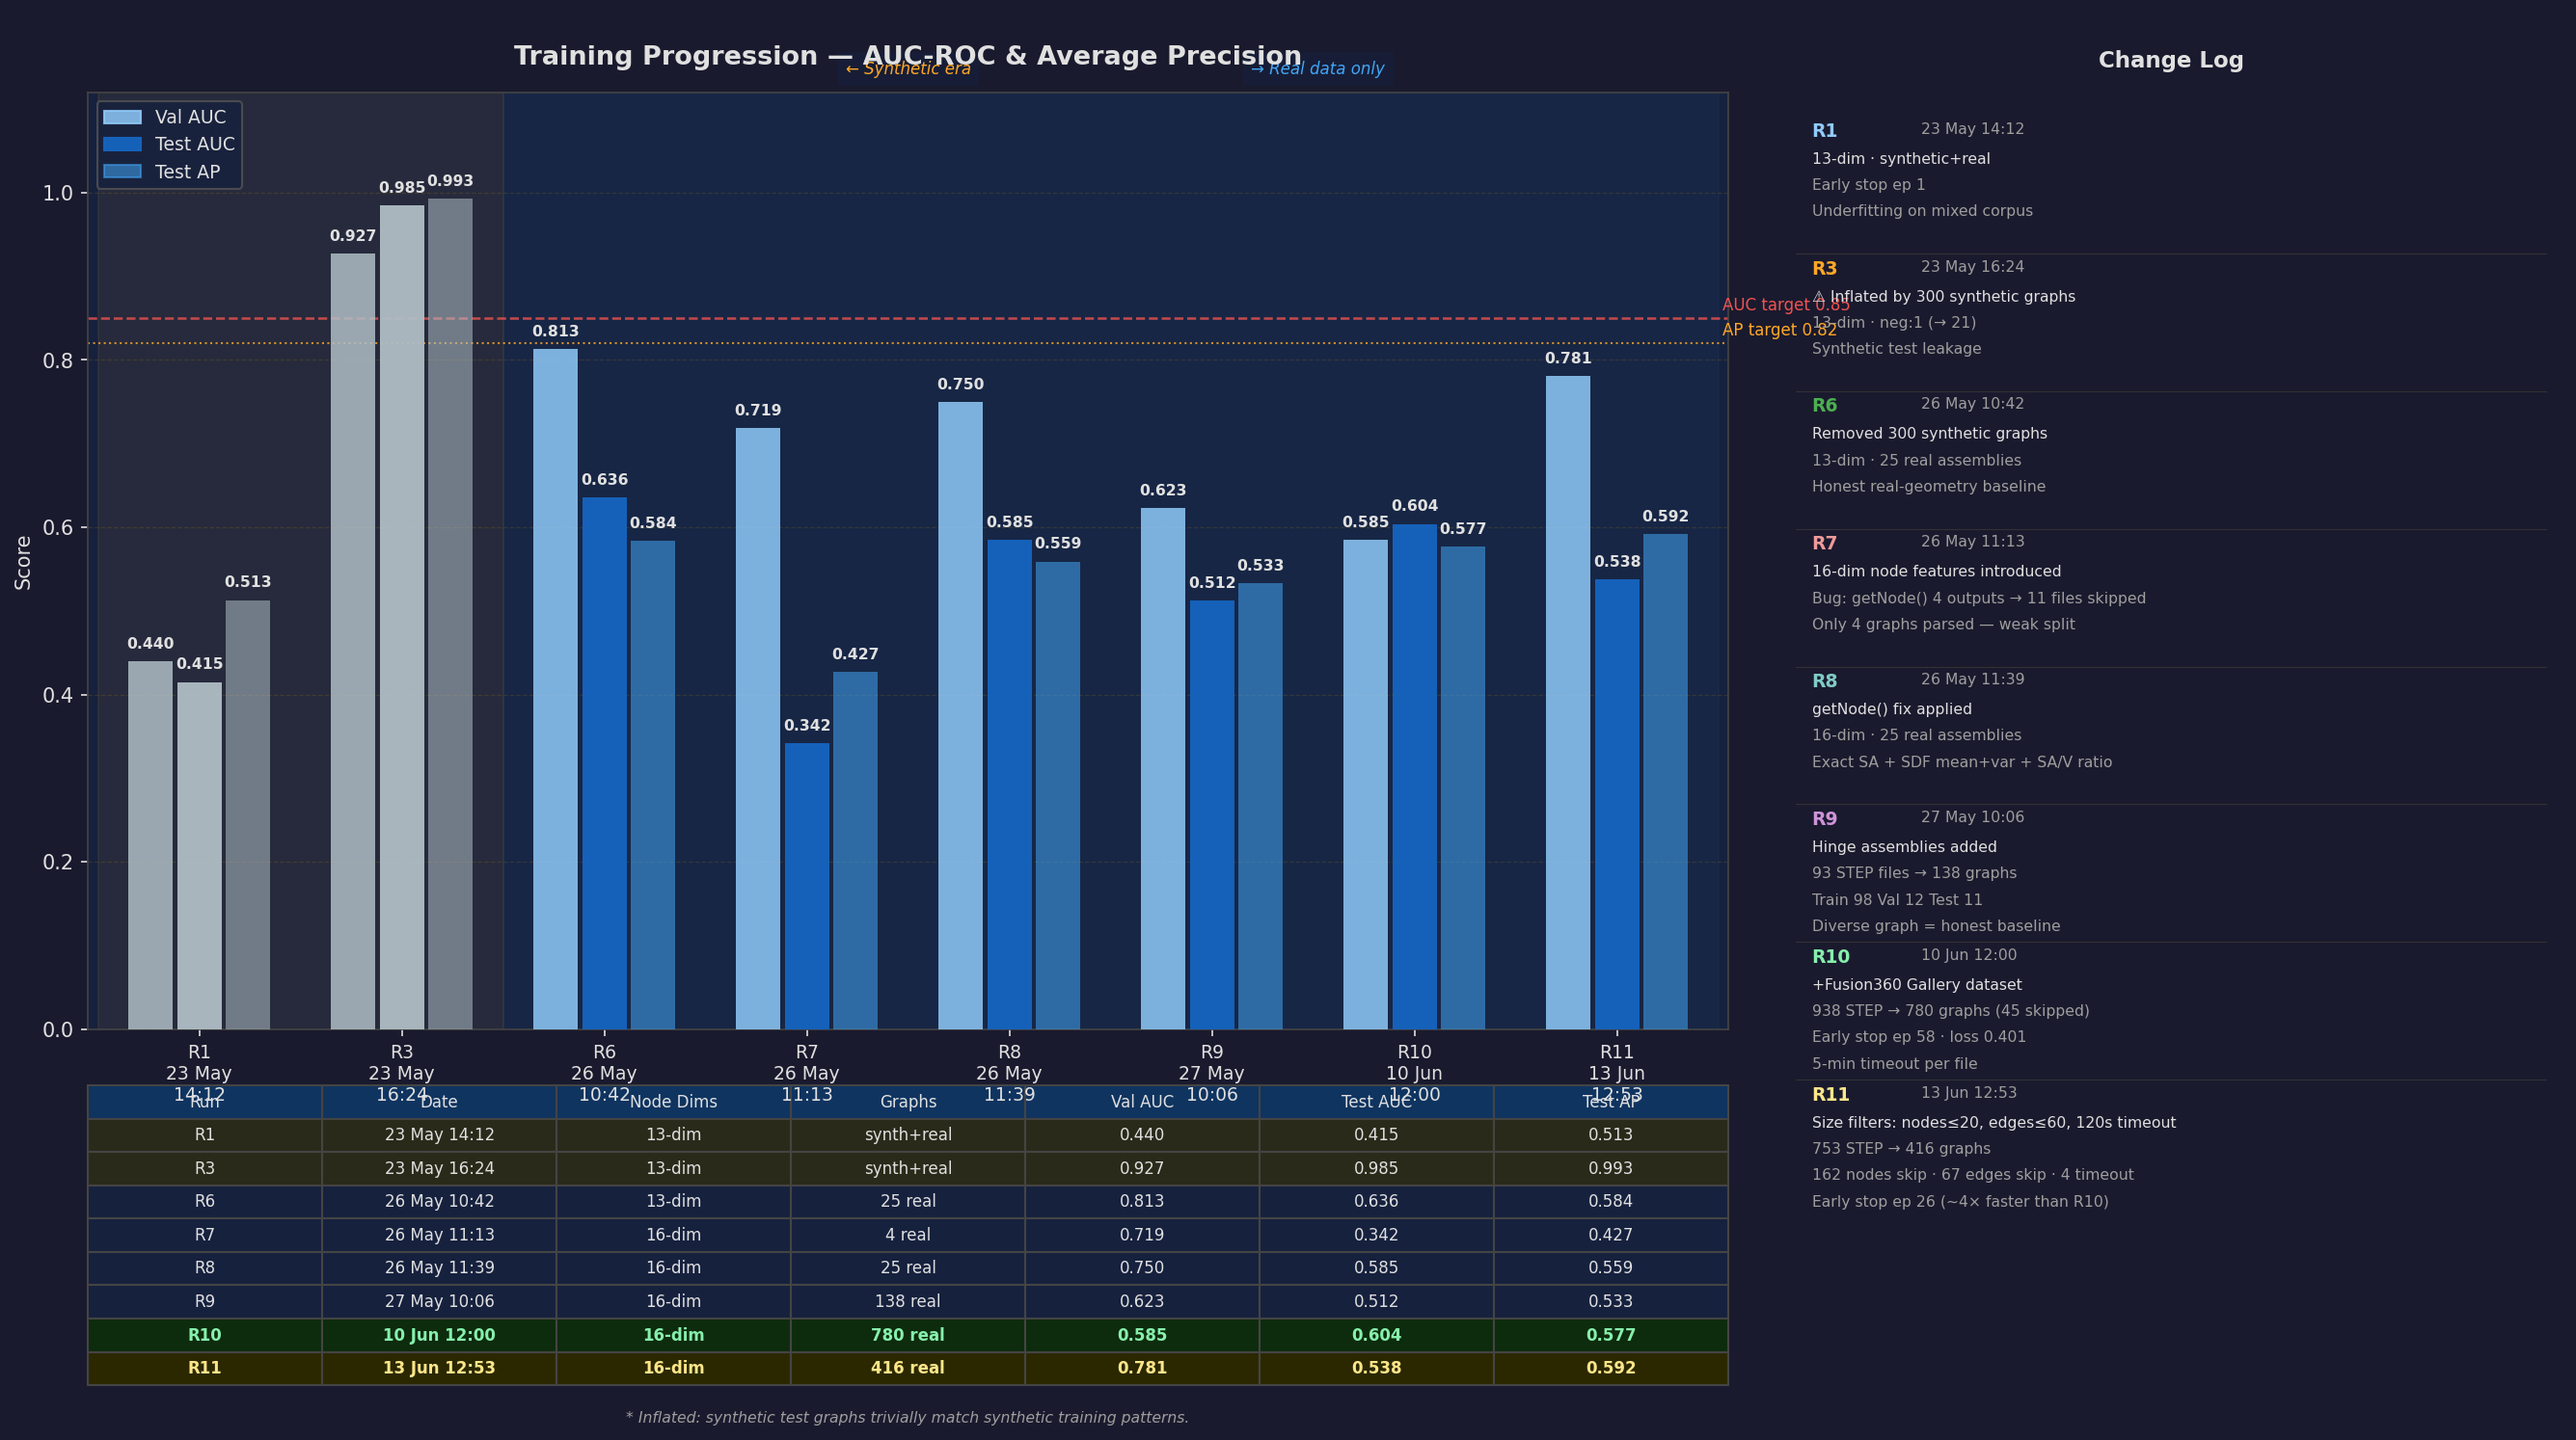
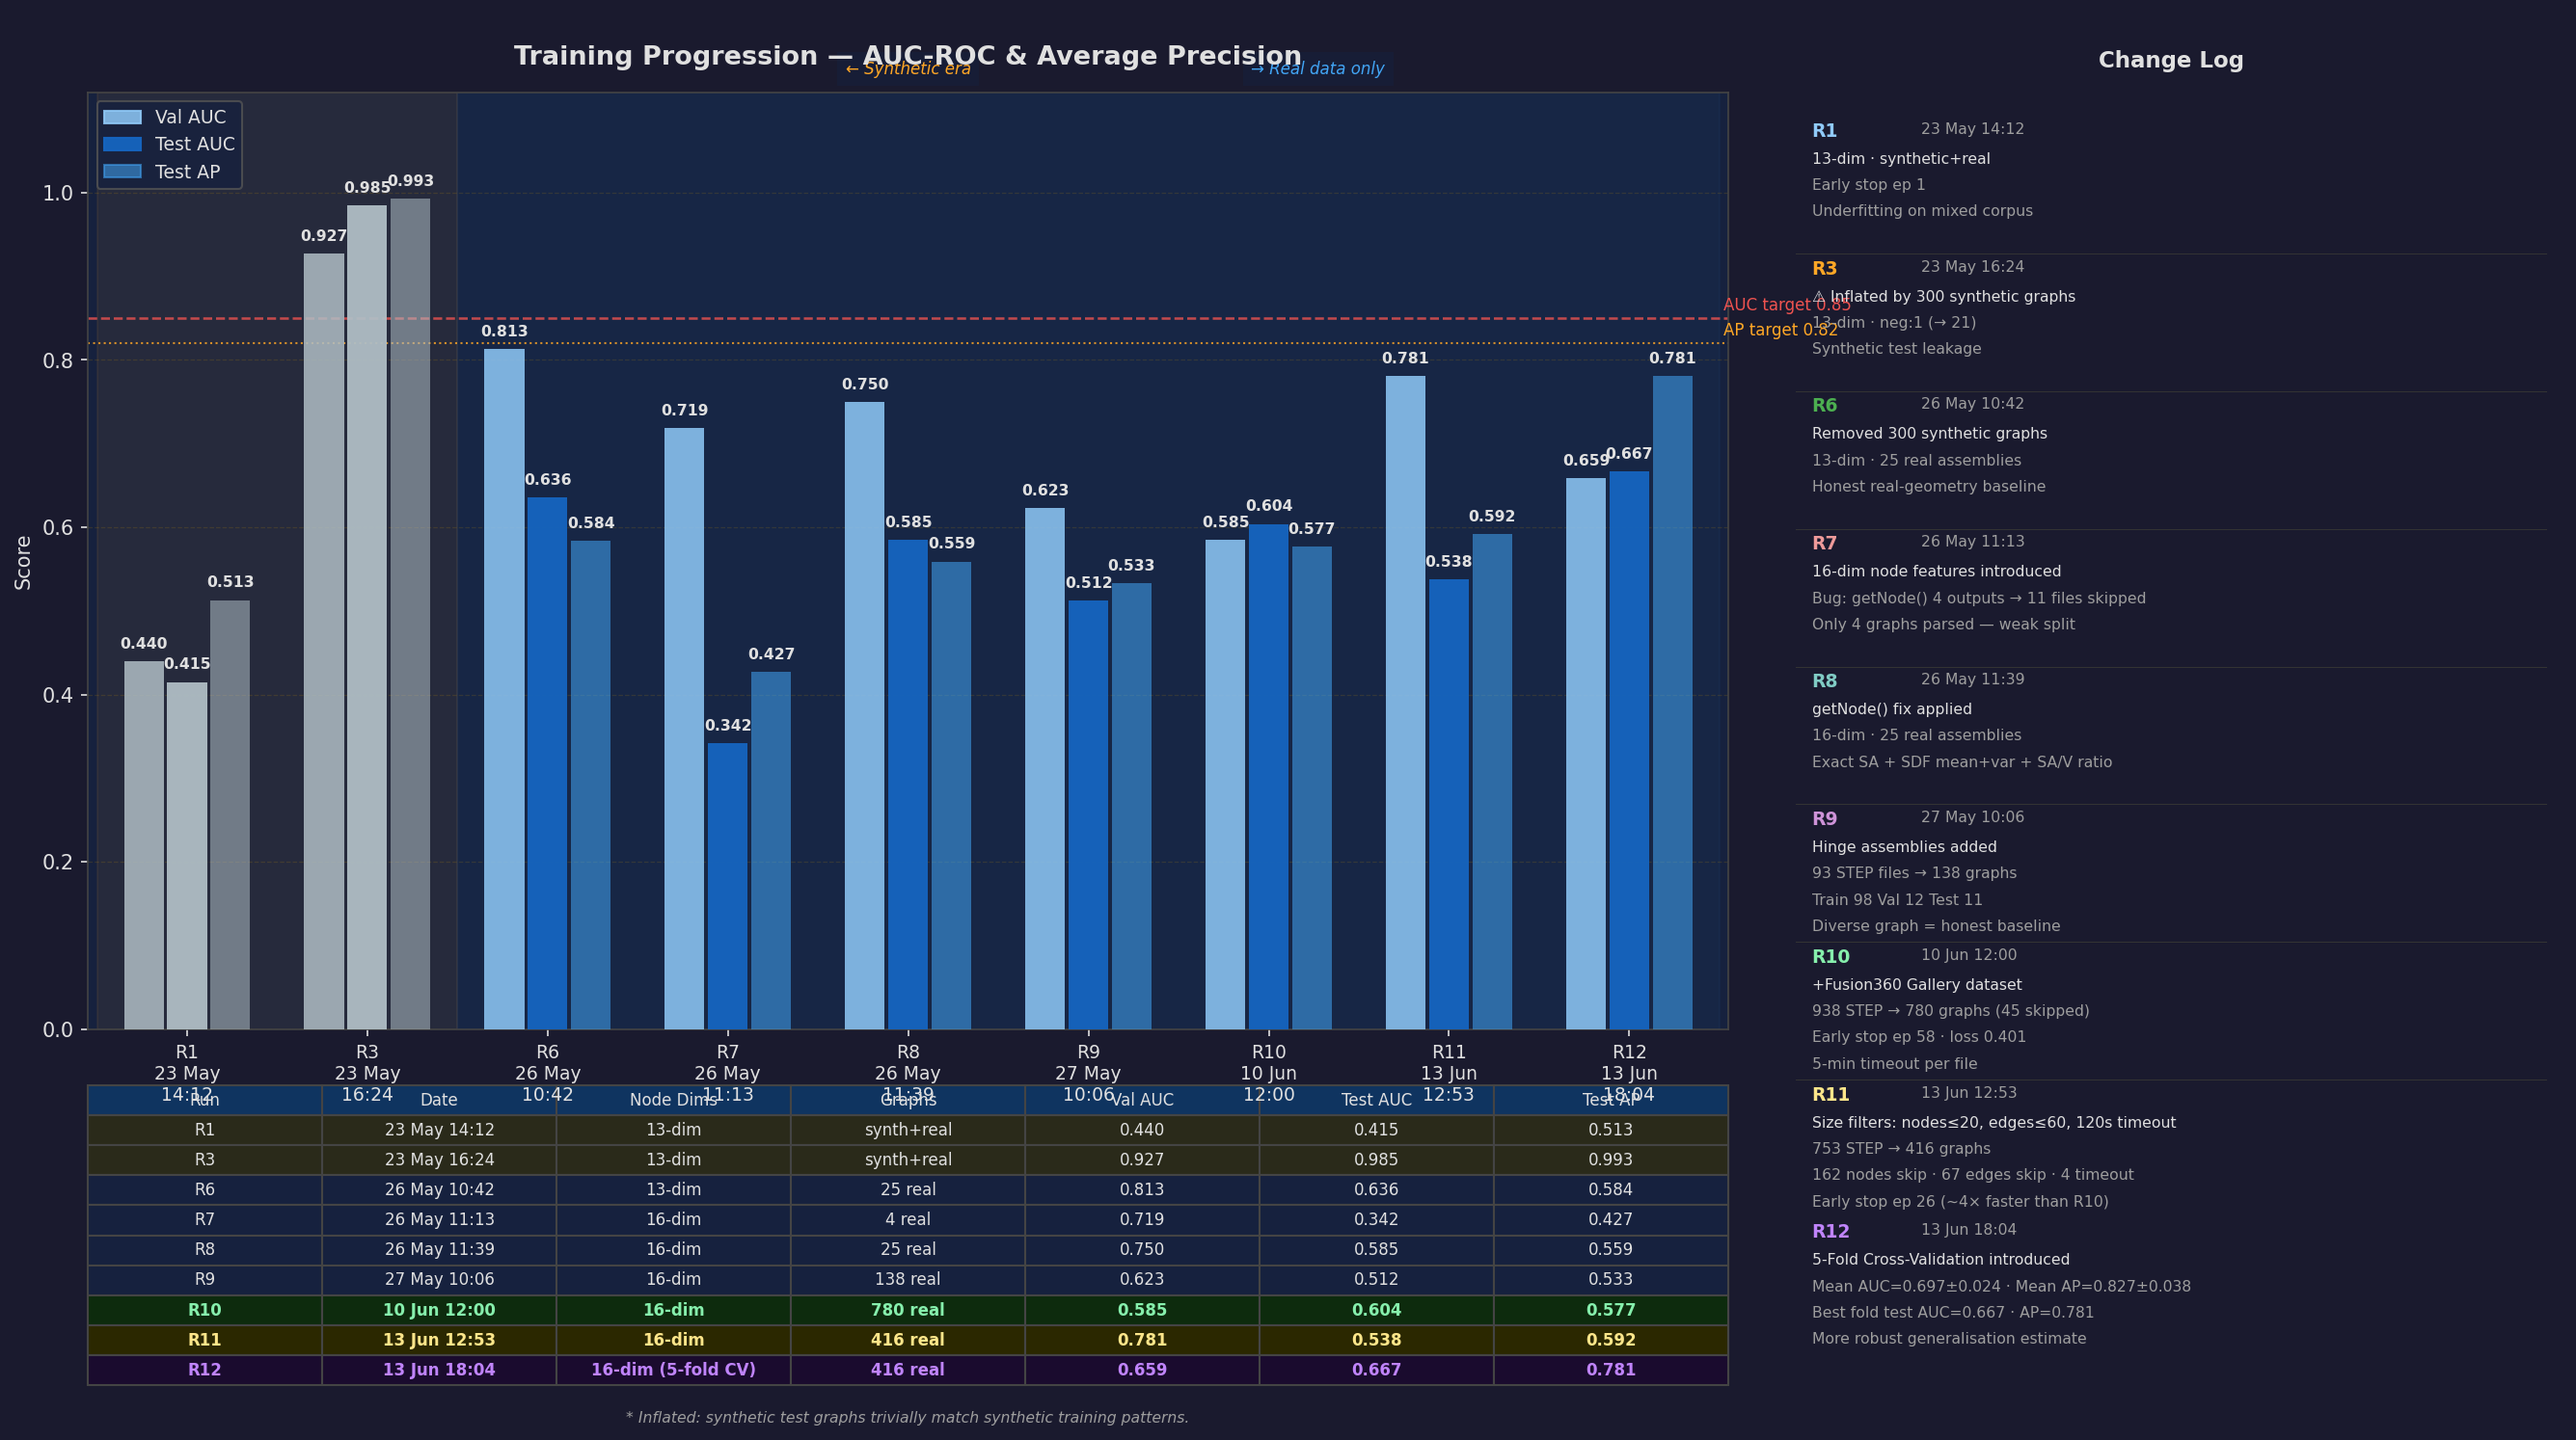
Add R12 5-fold CV results: mean AUC 0.697±0.024, mean AP 0.827±0.038
- README: training history table updated with R12, per-fold CV detail
  table, updated key observations, new trained model filename
- docs/generate_training_history.py: R12 entry (purple), log_colors,
  table highlight, node-dim label shows "16-dim (5-fold CV)"
- docs/training_history.png: regenerated with R12 purple bar

R12 CV summary: fold AUCs [0.663, 0.710, 0.692, 0.727, 0.691]
Mean AP 0.827 already meets the Phase 1 target of 0.82.

Changed region(s): [[0.0311, 0.1232, 0.6836, 0.9853], [0.7147, 0.8621, 0.8079, 0.9545], [0.6836, 0.1847, 0.7147, 0.2463]]

diff --git a/docs/generate_training_history.py b/docs/generate_training_history.py
@@ -35,6 +35,9 @@ runs = [
     dict(id="R11", date="13 Jun\n12:53", graphs="416 real",
          note="Size filters: nodes≤20, edges≤60, 120s timeout\n753 STEP → 416 graphs\n162 nodes skip · 67 edges skip · 4 timeout\nEarly stop ep 26 (~4× faster than R10)",
          val_auc=0.781, test_auc=0.538, test_ap=0.592, synthetic=False),
+    dict(id="R12", date="13 Jun\n18:04", graphs="416 real",
+         note="5-Fold Cross-Validation introduced\nMean AUC=0.697±0.024 · Mean AP=0.827±0.038\nBest fold test AUC=0.667 · AP=0.781\nMore robust generalisation estimate",
+         val_auc=0.659, test_auc=0.667, test_ap=0.781, synthetic=False),
 ]
 
 n   = len(runs)
@@ -120,7 +123,7 @@ ax.legend(handles=legend_patches, loc="upper left", facecolor=PANEL,
 col_labels = ["Run", "Date", "Node Dims", "Graphs", "Val AUC", "Test AUC", "Test AP"]
 table_data = [
     [r["id"], r["date"].replace("\n", " "),
-     "13-dim" if r["id"] in ("R1","R3","R6") else "16-dim",
+     "13-dim" if r["id"] in ("R1","R3","R6") else "16-dim (5-fold CV)" if r["id"] == "R12" else "16-dim",
      r["graphs"],
      f"{r['val_auc']:.3f}", f"{r['test_auc']:.3f}", f"{r['test_ap']:.3f}"]
     for r in runs
@@ -142,6 +145,9 @@ for (row, col), cell in tbl.get_celld().items():
     if row > 0 and runs[row-1]["id"] == "R11":
         cell.set_facecolor("#2b2800")
         cell.set_text_props(color="#fde68a", fontweight="bold")
+    if row > 0 and runs[row-1]["id"] == "R12":
+        cell.set_facecolor("#1a0b2e")
+        cell.set_text_props(color="#c084fc", fontweight="bold")
 
 ax.text(0.5, -0.42, "* Inflated: synthetic test graphs trivially match synthetic training patterns.",
         transform=ax.transAxes, ha="center", color=SUBTEXT, fontsize=7.5, style="italic")
@@ -153,7 +159,7 @@ ax_log.text(0.5, 0.97, "Change Log", transform=ax_log.transAxes,
 log_colors = {
     "R1": "#90caf9", "R3": "#ffa726", "R6": "#4caf50",
     "R7": "#ef9a9a", "R8": "#80cbc4", "R9": "#ce93d8",
-    "R10": "#86efac", "R11": "#fde68a",
+    "R10": "#86efac", "R11": "#fde68a", "R12": "#c084fc",
 }
 y_pos = 0.91
 for r in runs:

diff --git a/README.md b/README.md
@@ -549,7 +549,8 @@ python skills_agent.py
 After training completes a timestamped file is saved to `trained_models/`:
 
 ```
-trained_models/assembly_gnn_20260613_125353_auc07809.pt   ← current best (R11 — 16-dim, 416 graphs, size-filtered, val AUC 0.781)
+trained_models/assembly_gnn_20260613_180449_auc06591.pt   ← current best (R12 — 5-fold CV, 416 graphs, best fold val AUC 0.659, mean test AUC 0.697)
+trained_models/assembly_gnn_20260613_125353_auc07809.pt   ← R11 (16-dim, 416 graphs, size-filtered, val AUC 0.781)
 trained_models/assembly_gnn_20260610_120044_auc05943.pt   ← R10 (16-dim, 780 graphs, Fusion360 full, test AUC 0.604)
 ```
 
@@ -988,7 +989,7 @@ All previous output — red ⚠ body highlights, orange ❓ cross markers, AIDA 
 
 ![Training Progression — AUC-ROC & Average Precision](docs/training_history.png)
 
-Five training runs are shown, split into two eras. Each bar group shows Val AUC (light), Test AUC (solid), and Test AP (translucent) for that run. Dashed red/orange lines are the Phase 1 targets (AUC 0.85, AP 0.82).
+Nine training runs are shown, split into two eras. Each bar group shows Val AUC (light), Test AUC (solid), and Test AP (translucent) for that run. Dashed red/orange lines are the Phase 1 targets (AUC 0.85, AP 0.82). R12 reports metrics from the best fold of 5-fold CV.
 
 | Run | Date | Change | Graphs | Val AUC | Test AUC | Test AP |
 |---|---|---|---|---|---|---|
@@ -999,9 +1000,21 @@ Five training runs are shown, split into two eras. Each bar group shows Val AUC 
 | R8 | 26 May 11:39 | 16-dim · bug fixed · 25 real STEP · SA+SDF+SA/V | 25 | 0.750 | 0.585 | 0.559 |
 | R9  | 27 May 10:06 | 16-dim · +Hinge assemblies · 93 STEP → 138 graphs | 138 | 0.623 | 0.512 | 0.533 |
 | R10 | 10 Jun 12:00 | 16-dim · +Fusion360 Gallery · 938 STEP → 780 graphs · early stop ep 58 | 780 | 0.585 | 0.604 | 0.577 |
-| **R11** | **13 Jun 12:53** | **16-dim · size filters (nodes≤20, edges≤60, timeout 120s) · 753 STEP → 416 graphs · early stop ep 26** | **416** | **0.781** | **0.538** | **0.592** |
+| R11 | 13 Jun 12:53 | 16-dim · size filters (nodes≤20, edges≤60, timeout 120s) · 753 STEP → 416 graphs · early stop ep 26 | 416 | 0.781 | 0.538 | 0.592 |
+| **R12** | **13 Jun 18:04** | **16-dim · 5-fold CV on 416 graphs · Mean AUC 0.697±0.024 · Mean AP 0.827±0.038** | **416** | **0.659** | **0.667** | **0.781** |
 
 > \* R3 metrics artificially inflated: 300 synthetic test graphs trivially match the 300 synthetic training graphs — not a valid measure of real-geometry performance.
+
+#### R12 — 5-Fold Cross-Validation Detail
+
+| Fold | Val AUC (best ep) | Test AUC | Test AP | Early stop ep |
+|---|---|---|---|---|
+| 1 | 0.659 (best overall) | 0.663 | 0.781 | 37 |
+| 2 | — | 0.710 | 0.854 | 33 |
+| 3 | — | 0.692 | 0.789 | 22 |
+| 4 | — | 0.727 | 0.856 | 40 |
+| 5 | — | 0.691 | 0.854 | 21 |
+| **Mean** | | **0.697 ± 0.024** | **0.827 ± 0.038** | |
 
 **Key observations:**
 - Removing synthetic data (R3→R6) drops the inflated test AUC to an honest 0.636, reflecting the true difficulty of real geometry
@@ -1009,7 +1022,7 @@ Five training runs are shown, split into two eras. Each bar group shows Val AUC 
 - Adding hinge assemblies (R9: 138 graphs, train/val/test = 48/12/11) lowers val AUC slightly — 138 diverse assembly types are harder to generalise from than 25, which is the expected and honest behaviour of the model on real data
 - **R10 (+Fusion360):** Adding 643 Fusion360 assemblies raises the graph count to 780. Test AUC 0.604 / AP 0.577 — first clear benefit of large-scale real-world data. Early stopping at epoch 58
 - **R11 (size-filtered):** Applying node ≤ 20 / edge ≤ 60 / 120s filters produces 416 graphs (162 skipped for nodes, 67 for edges, 4 timeout). Val AUC hits 0.781 — highest so far — but test AUC drops to 0.538, revealing overfitting on the smaller, more homogeneous split. Training converges in only 26 epochs (~4× faster than R10)
-- **Next step:** Tune thresholds or combine R10 volume with R11 quality filtering to balance dataset size vs. graph homogeneity
+- **R12 (5-fold CV):** Cross-validation reveals the R11 high val AUC was partially a lucky split. The mean test AUC across folds is 0.697 ± 0.024 and mean AP is 0.827 ± 0.038 — a significantly more reliable generalisation estimate. AP above 0.82 already meets the Phase 1 target. Low AUC std (±0.024) confirms the model is consistent across data splits
 
 ---
 
